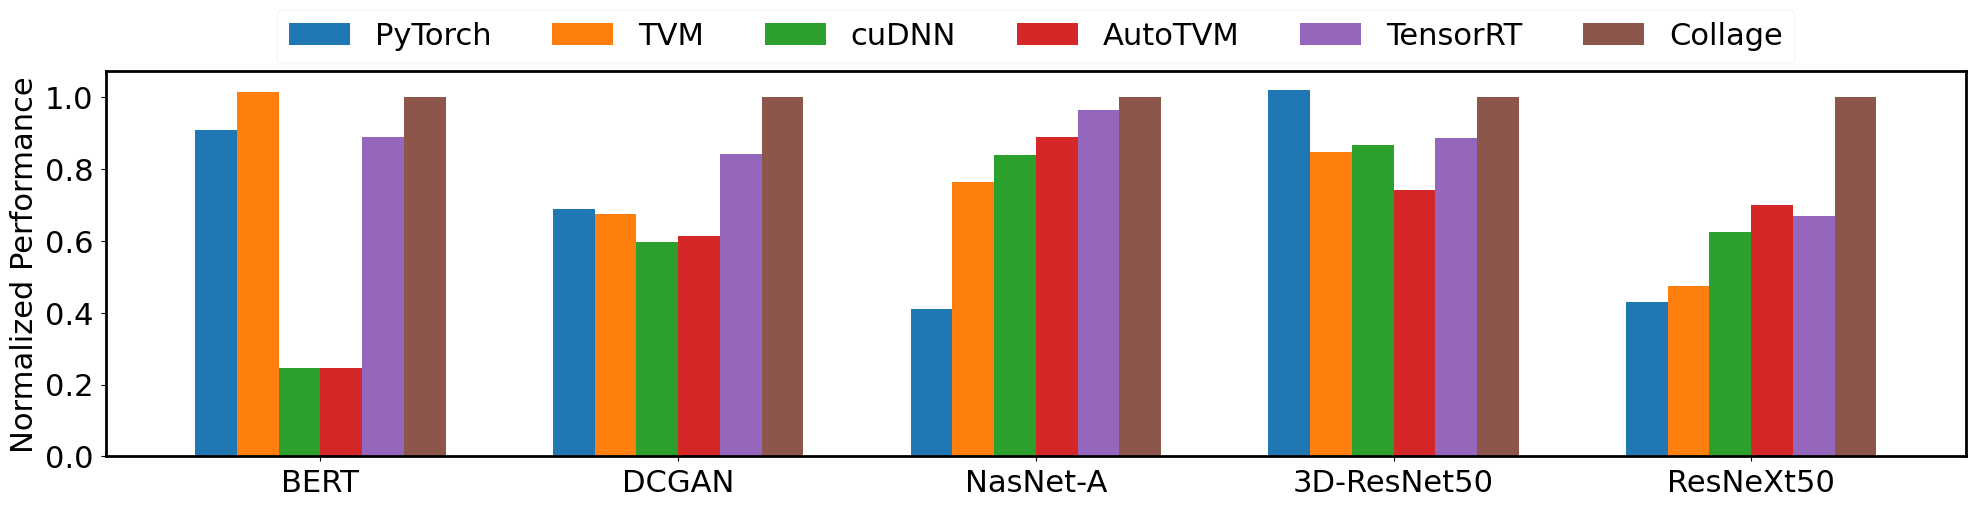
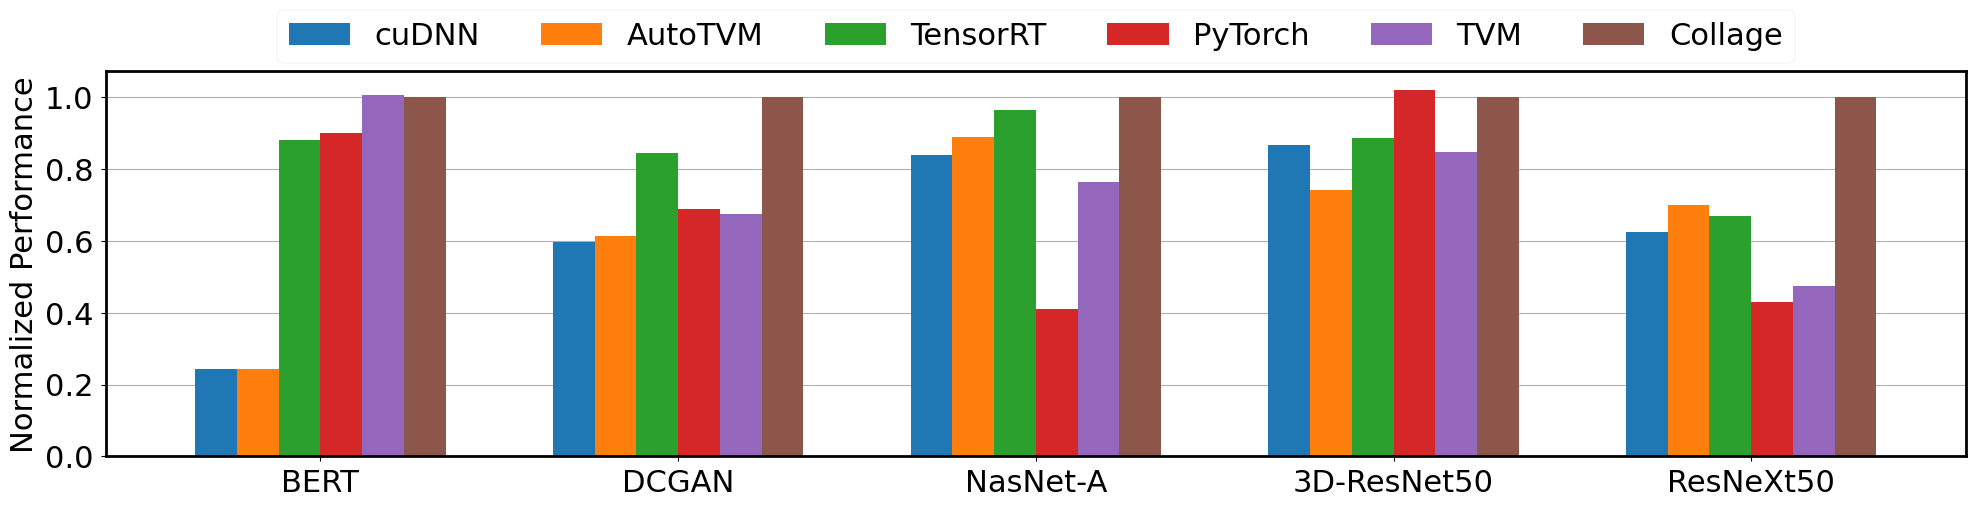
[E2E plot] added grid lines, order of methods changed

diff --git a/sandbox/testing/plot_e2e_perf.py b/sandbox/testing/plot_e2e_perf.py
@@ -11,11 +11,12 @@ FINAL_NETWORKS = ["resnext50_32x4d", "bert", "dcgan", "nasneta", 'resnet50_3d']
 
 def setup_df_with_baselines_and_method(df):
     # Make sure column order is following before we normalize perf
-    df = df[['PyTorch', 'AutoTVM-libs', 'cuDNN', 'AutoTVM', 'TensorRT', 'DP', 'Two-level']]
+    df = df[['cuDNN', 'AutoTVM', 'TensorRT', 'PyTorch', 'AutoTVM-libs', 'DP', 'Two-level']]
     df = df.rename(columns={'AutoTVM-libs': 'TVM', 'Two-level': 'Collage'})
     df = df.drop(columns=['DP'])
     df = df.drop(['Mobilenet V2', 'ResNet50', 'NasRNN'])#, '3D-ResNet50', 'DCGAN', 'NasNet-A', 'ResNeXt50'])
 
+    print(df)
     return df
 
 def setup_df_for_normalized_perf_plot(df):
@@ -30,7 +31,6 @@ def setup_df_for_normalized_perf_plot(df):
 
 def draw_e2e_perf_plot_normalized(df):
     df = setup_df_for_normalized_perf_plot(df)
-
     df.plot.bar(figsize=(24, 5), width=0.7)
 
     # Save figures
@@ -38,20 +38,20 @@ def draw_e2e_perf_plot_normalized(df):
     plt.ylabel('Normalized Performance')
     # plt.ylabel('Inference Time (ms)')
 
+    plt.grid(axis='y', zorder=-2.0)
     plt.xticks(rotation=0)
     plt.legend(ncol=6, loc='upper center', bbox_to_anchor=(0.5, 1.2))
     plt.savefig(f"{EXP_RESULT_PATH}/plots/e2e_perf.png", bbox_inches='tight')
 
 def draw_e2e_perf_plot_ms(df):
     df = setup_df_with_baselines_and_method(df)
-    print(df)
-
     df.plot.bar(figsize=(24, 5), width=0.7)
 
     # Save figures
     plt.xlabel("")
     plt.ylabel('Inference Time (ms)')
 
+    plt.grid(axis='y', zorder=-2.0)
     plt.xticks(rotation=0)
     plt.legend(ncol=6, loc='upper center', bbox_to_anchor=(0.5, 1.2))
     plt.savefig(f"{EXP_RESULT_PATH}/plots/e2e_perf.png", bbox_inches='tight')

diff --git a/python/tvm/relay/transform/utility/plot_utils.py b/python/tvm/relay/transform/utility/plot_utils.py
@@ -6,6 +6,7 @@ def set_plt_font_size():
     BIGGER_SIZE = 22
 
     plt.style.use('seaborn-paper')
+    plt.rc('axes', axisbelow=True)
     plt.rc('font', size=BIGGER_SIZE)  # controls default text sizes
     plt.rc('axes', titlesize=BIGGER_SIZE)  # fontsize of the axes title
     plt.rc('axes', labelsize=BIGGER_SIZE)  # fontsize of the x and y labels
